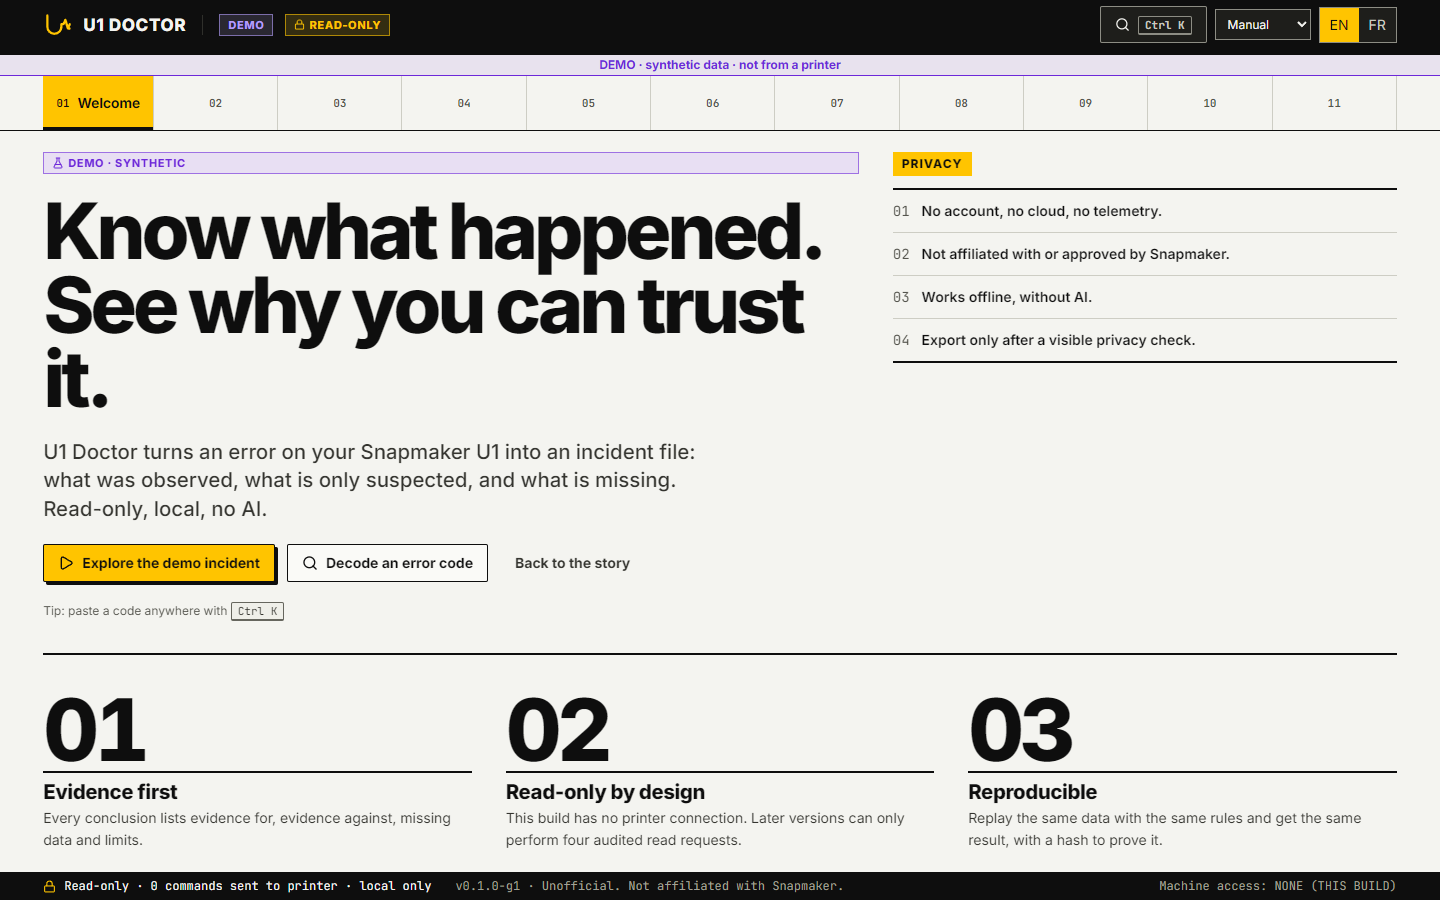
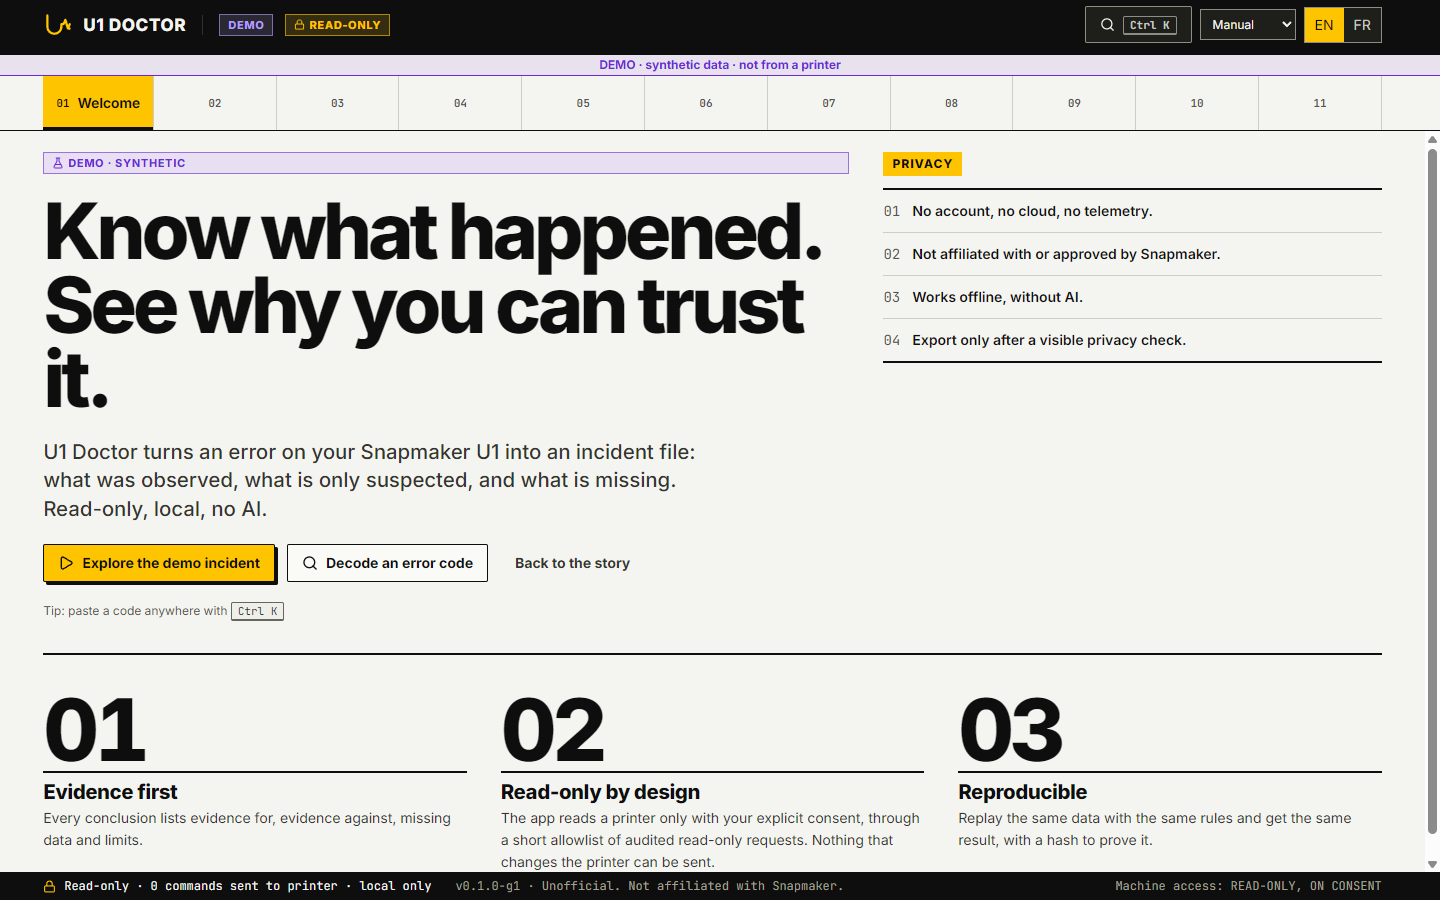
docs: Rewrite the README for newcomers and refresh the install guide
Plain-words intro, download and two-minute start, how to use the Connect
screen, current status (12 rules, real captures, release, VirusTotal), a
French summary and a call for real incidents. INSTALL now describes the
published release. Retake the welcome, connect and settings screenshots, which
showed the old no-connection build. Drop two unused noqa comments so ruff is
clean.

diff --git a/scripts/replay_hashes.py b/scripts/replay_hashes.py
@@ -12,8 +12,8 @@ from pathlib import Path
 ROOT = Path(__file__).resolve().parents[1]
 sys.path.insert(0, str(ROOT / "backend"))
 
-from app.engine import canon, evaluate  # noqa: E402
-from app.engine.canonical import ruleset_hash, sha256_hex  # noqa: E402
+from app.engine import canon, evaluate
+from app.engine.canonical import ruleset_hash, sha256_hex
 
 
 def main() -> int:

diff --git a/README.md b/README.md
@@ -1,53 +1,109 @@
-<p align="center"><img src="docs/media/hero.jpg" alt="U1 Doctor" width="100%"></p>
+<p align="center"><img src="docs/media/hero.jpg" alt="U1 Doctor: a Snapmaker U1 with a magnifier over its screen" width="100%"></p>
 
-# U1 Doctor
+<h1 align="center">U1 Doctor</h1>
 
-[![MIT](https://img.shields.io/badge/licence-MIT-ffc400?style=flat-square&labelColor=131416)](LICENSE) ![read-only](https://img.shields.io/badge/printer-read--only-ffc400?style=flat-square&labelColor=131416) ![local](https://img.shields.io/badge/runs-100%25%20local-ffc400?style=flat-square&labelColor=131416) ![no cloud](https://img.shields.io/badge/cloud%20%C2%B7%20telemetry%20%C2%B7%20AI-none-b4a0ff?style=flat-square&labelColor=131416)
+<p align="center"><b>When a print stops, know what happened, and why you can trust the answer.</b><br>
+A local, read-only evidence tool for the Snapmaker U1. No cloud, no telemetry, no AI.</p>
 
-**[Open the illustrated presentation](docs/presentation/index.html)** (EN/FR, animated, works offline).
+<p align="center">
+<a href="https://github.com/stormz85ia/u1-doctor/actions/workflows/ci.yml"><img alt="CI" src="https://github.com/stormz85ia/u1-doctor/actions/workflows/ci.yml/badge.svg"></a>
+<a href="https://github.com/stormz85ia/u1-doctor/releases/latest"><img alt="release" src="https://img.shields.io/github/v/release/stormz85ia/u1-doctor?include_prereleases&style=flat-square&labelColor=131416&color=ffc400"></a>
+<a href="LICENSE"><img alt="MIT" src="https://img.shields.io/badge/licence-MIT-ffc400?style=flat-square&labelColor=131416"></a>
+<img alt="read-only" src="https://img.shields.io/badge/printer-read--only-ffc400?style=flat-square&labelColor=131416">
+<img alt="local" src="https://img.shields.io/badge/runs-100%25%20local-ffc400?style=flat-square&labelColor=131416">
+<img alt="no cloud" src="https://img.shields.io/badge/cloud%20%C2%B7%20telemetry%20%C2%B7%20AI-none-b4a0ff?style=flat-square&labelColor=131416">
+</p>
 
-**Unofficial, local, read-only diagnostic forensics for the Snapmaker U1.**
-Not affiliated with, endorsed by, or approved by Snapmaker. No cloud, no telemetry, no AI.
+<p align="center">
+<a href="https://github.com/stormz85ia/u1-doctor/releases/latest"><b>Download for Windows</b></a> &nbsp;·&nbsp;
+<a href="https://stormz85ia.github.io/u1-doctor/presentation/"><b>Illustrated presentation</b></a> (EN/FR) &nbsp;·&nbsp;
+<a href="docs/INSTALL.md"><b>Install guide</b></a> &nbsp;·&nbsp;
+<a href="docs/LIMITS.md"><b>What it does not do</b></a>
+</p>
 
-When a print pauses or stops, U1 Doctor helps you answer three questions without guessing:
+> Unofficial. Not affiliated with, endorsed by, or approved by Snapmaker.
+
+---
+
+## What is it, in plain words?
+
+Your U1 pauses or shows an error code. You want to know what the code means, what the printer was doing just before, and what you can show a friend or Snapmaker support, without guessing.
+
+U1 Doctor runs **on your own PC**. It gives you three things:
 
 <table>
 <tr>
-<td width="33%"><img src="docs/media/q1-code.jpg" alt=""><br><b>1. What does this error code mean?</b><br>An offline decoder, with a link to the official page.</td>
-<td width="33%"><img src="docs/media/q2-timeline.jpg" alt=""><br><b>2. What happened, and when?</b><br>A timeline built only from observed facts.</td>
-<td width="33%"><img src="docs/media/q3-bundle.jpg" alt=""><br><b>3. What can I show someone else?</b><br>A portable evidence bundle (U1-DEB) that anyone can open and replay locally.</td>
+<td width="33%" valign="top"><img src="docs/media/q1-code.jpg" alt=""><br><b>1. What does this code mean?</b><br>An offline decoder for 413 official U1 error codes, with a link to the official page. A code it does not know gives "inconclusive", never a guess.</td>
+<td width="33%" valign="top"><img src="docs/media/q2-timeline.jpg" alt=""><br><b>2. What happened, and when?</b><br>A timeline built only from facts that were really observed, with the gaps shown instead of hidden.</td>
+<td width="33%" valign="top"><img src="docs/media/q3-bundle.jpg" alt=""><br><b>3. What can I show someone else?</b><br>A portable evidence bundle (<code>U1-DEB</code>) that anyone can open and replay on their own PC, to get the same result.</td>
 </tr>
 </table>
 
-> **Status: work in progress, prepared for the Snapmaker U1 Innovation Fund (Phase 2).**
-> **The app is offline by default.** It shows one **real** recorded capture and several **synthetic** scenarios, each clearly badged. The **Connect** screen can take a short **read-only** capture from your own U1, but only after you type its private address and tick an approval box. No real fault has been captured yet, so every incident you can open in the app is `SYNTHETIC`.
+**It only looks. It never touches your printer.** It cannot pause, cancel, restart or send G-code. It can read from a printer only if you type its address and tick an approval box, and even then through a short, fixed list of read-only requests.
+
+## A quick look
+
+| Overview | Incident timeline | Error codes |
+|---|---|---|
+| ![Overview](docs/media/screens/03-overview.png) | ![Timeline](docs/media/screens/06-timeline.png) | ![Error codes](docs/media/screens/04-error-codes.png) |
+
+Screenshots use the built-in **synthetic demo data** (the `DEMO` banner is always visible). All 11 screens are in [`docs/media/screens/`](docs/media/screens/).
+
+## Get started in two minutes (Windows)
+
+1. Download `u1-doctor-0.1.0-g1-win64.zip` and its `.sha256.txt` from the [latest release](https://github.com/stormz85ia/u1-doctor/releases/latest).
+2. Check the file was not altered (optional, 10 seconds):
+   ```powershell
+   Get-FileHash .\u1-doctor-0.1.0-g1-win64.zip -Algorithm SHA256
+   ```
[1 lines of base64/hex data omitted]
+3. Right-click the zip, **Extract all** (not WinRAR or 7-Zip, so Windows keeps the download mark), then run `u1-doctor.exe`.
+4. Open <http://127.0.0.1:8765> in your browser.
+
+**Good to know**
+- The app is **not code-signed**, so Windows SmartScreen may warn: choose "More info", then "Run anyway".
+- VirusTotal scan of the release zip: 1 engine out of 66 flagged it (a generic heuristic detection, no malware family named); [report](https://www.virustotal.com/gui/file/fb7b72530d16b7b08e76aea0cfe5a130854c7389e4b8c8093faee4a05c7e8469).
+- It opens in **DEMO mode**: everything works offline with clearly labelled synthetic data. Nothing is sent anywhere.
+- Linux, macOS and Docker: see the [install guide](docs/INSTALL.md).
+
+## Use it with your own U1
+
+1. Open the **Connect** screen.
+2. Type your printer's private address (for example `192.168.x.x`).
+3. Read the list of allowed requests, tick **"I own this printer"**, press **Capture (read-only)**.
+4. You get what the printer reports (state, versions, temperatures over time) and the findings from the rules, with the capture saved to the History screen if you wish.
+
+![The Connect screen](docs/media/screens/02-connect.png)
+
+The capture never contains your address or file names. If the live stream closes early, the app checks with a few more read-only status requests whether the printer itself still answers, so a lost connection is not mistaken for a stopped printer.
 
 ## What works today
 
 | Feature | State |
 |---|---|
-| Offline decoder for 413 official U1 error codes (paraphrased, with link). Unknown or malformed codes give `INCONCLUSIVE`, never a guess | tested on synthetic data |
-| Deterministic rules engine: the same observations and the same rule set always give the same findings and the same hash | tested on synthetic data, one platform |
-| Explainable findings: evidence for, evidence against, what is missing, limits, official references. No score, no percentage | tested on synthetic data |
-| Print-quality assistant ("needs your eyes"): 16 symptoms, causes from the official pages in the wiki's order, evidence only from numbers you type or temperatures in a saved session. No ranking, no score | tested on synthetic and real-capture data |
-| Timeline of the **observed window**: phases, explicit gaps, per-row source and time quality | tested on the real capture and 13 synthetic scenarios |
-| U1-DEB export, safe import, replay (see [`docs/U1-DEB.md`](docs/U1-DEB.md)) | tested in one process; not yet tested on a second machine |
-| Windows build (PyInstaller, one folder) | runs on the developer PC; **not yet tested on a clean Windows 11** |
+| Offline decoder for 413 official error codes (paraphrased, with link) | tested on synthetic data |
+| Deterministic rules engine: same observations and same rule set always give the same findings and the same hash. 12 rules | tested on synthetic and real-capture data, on Windows, Linux and macOS (identical replay hash in CI) |
+| Explainable findings: evidence for, evidence against, what is missing, limits, official references. No score, no percentage | tested |
+| Read-only live capture from the Connect screen | tested against a mock and on the owner's U1 (no write ever sent) |
+| Print-quality assistant ("needs your eyes"): 16 symptoms, causes in the official order, evidence only from numbers you type or saved temperatures | tested |
+| Timeline of the **observed window**: phases, explicit gaps, source and time quality per row | tested on real captures and 17 synthetic scenarios |
+| `U1-DEB` export, safe import and replay ([spec](docs/U1-DEB.md)) | tested; a ready-made example and a validator are in the repo |
+| Windows build (one folder, no Python needed) | started and checked on the developer PC; **not yet tested on a clean Windows 11** |
 | English and French interface | both complete |
 
-The real capture comes from the owner's own U1 (firmware 2.1.0): a 27-minute normal print, 9,333 frames, no fault. It is a recorded file in `fixtures/real/`. The evidence of how it was taken is in `docs/evidence/`.
+**Honest status:** the real captures come from the owner's own U1 (firmware 2.1.0) and are normal prints: a 27-minute print (9,333 frames) and a 55-minute multi-colour print (18,339 frames). **No real fault has been captured yet**, so every incident you can open in the app is labelled `SYNTHETIC`. That is the main thing this project still needs: see [real incidents wanted](#real-incidents-wanted).
 
 ## Safety model
 
 U1 Doctor never controls the printer.
 
-- The only code allowed to open a network connection to a printer is a single transport module. The web interface reaches it through one route, `POST /api/v1/live/capture`, which refuses to run without explicit owner consent, accepts one private IPv4 address, and rejects requests that do not come from the app itself.
-- Requests are checked against a frozen allowlist **before** any network I/O: `GET /server/info`, `GET /printer/info`, `GET /printer/objects/list`, `POST /printer/objects/query` (read-only query), and one WebSocket method, `printer.objects.subscribe`. Anything else is refused.
+- One single module may open a network connection to a printer. The web interface reaches it through one route (`POST /api/v1/live/capture`) that refuses to run without explicit owner consent, accepts one private IPv4 address, and rejects requests that do not come from the app itself.
+- Every request is checked against a frozen allowlist **before** any network I/O: `GET /server/info`, `GET /printer/info`, `GET /printer/objects/list`, `POST /printer/objects/query` (read-only query) and one WebSocket method, `printer.objects.subscribe`. Anything else is refused.
 - Pause, resume, cancel, restart, emergency stop and `printer.gcode.script` are covered by tests that must stay refused.
-- Supervised sessions on the owner's U1: two scripted runs (3 read-only GET requests and 1 WebSocket subscribe) and one capture started from the Connect screen on an idle printer (3 GET and 1 subscribe, 15 s). No write was sent.
+- Supervised sessions on the owner's U1 (scripted runs, a capture from the Connect screen and a 55-minute passive watch of a print) recorded **0 non-read operations**. The evidence is in [`docs/evidence/`](docs/evidence/).
 - The app listens on `127.0.0.1` only. Nothing leaves your machine.
 
-Details: [`docs/threat-model.md`](docs/threat-model.md), [`docs/capability-matrix.md`](docs/capability-matrix.md).
+Details: [`docs/threat-model.md`](docs/threat-model.md), [`docs/capability-matrix.md`](docs/capability-matrix.md), [`SECURITY.md`](SECURITY.md).
 
 ## What it does not claim
 
@@ -56,11 +112,14 @@ Details: [`docs/threat-model.md`](docs/threat-model.md), [`docs/capability-matri
 - Timestamps are the PC's receipt time unless proven otherwise. Machine clocks are never read as UTC.
 - A SHA-256 on a bundle proves **integrity only**, never who made it.
 - The official wiki warns that the displayed code may not be the real fault. The decoder reports what the code says, not a diagnosis.
+- Two rules rest on thresholds measured on a single print (a hot nozzle with its fan at zero, for one). They say so in their findings and rate themselves weak.
 - Export redaction is best effort and is not a guarantee of anonymity. Review a bundle before sharing it.
+
+Full list, each limit with its source: [`docs/LIMITS.md`](docs/LIMITS.md).
 
 ## Why owner-readable evidence
 
-According to the official Snapmaker wiki, the U1's exported system logs are encrypted: the archive cannot be read locally, and only Snapmaker support can open it. U1 Doctor does not read or decrypt those logs. It gives the owner something different: readable, hash-verifiable evidence built from read-only observations the owner authorizes, which can be inspected and replayed locally. A SHA-256 proves integrity only, never authorship. Source: [`docs/wiki-findings.md`](docs/wiki-findings.md) section 2.
+According to the official Snapmaker wiki, the U1's exported system logs are encrypted: the archive cannot be read locally, and only Snapmaker support can open it. U1 Doctor does not read or decrypt those logs. It gives the owner something different: readable, hash-verifiable evidence built from read-only observations the owner authorizes, which can be inspected and replayed locally. Source: [`docs/wiki-findings.md`](docs/wiki-findings.md), section 2.
 
 ## How it works
 
@@ -76,7 +135,11 @@ findings --> U1-DEB bundle (export / safe import / replay)
 
 Every fact carries its source and a time-quality marker. Findings point back to the observations that produced them. Imported bundles are labelled `IMPORTED`, and their findings are always recomputed with your local rule set. Architecture: [`docs/architecture.md`](docs/architecture.md).
 
-## Run from source (Windows PowerShell)
+## Real incidents wanted
+
+The rules were written from the official documentation and tested on one healthy printer. What would improve them most is a **real incident**: an error code that appeared, with the capture or bundle around it. If you have one, open an issue and describe it. Review any bundle before attaching it, and never include serial numbers or addresses.
+
+## Run from source
 
 Requirements: Python 3.12 or newer, Node.js with npm.
 
@@ -100,26 +163,39 @@ cd backend; .venv\Scripts\python.exe -m pytest
 cd frontend; npm test
 ```
 
-At the time of writing: 877 backend tests and 81 frontend tests pass, with `ruff`, `mypy` and `tsc` clean. CI runs the same checks.
-
-To build the Windows package: `scripts\build_windows.ps1`. A release zip with its SHA-256 will be linked here at publication. The executable is unsigned, so Windows SmartScreen may warn.
+At the time of writing: 914 backend tests, 82 frontend tests and 14 browser (Playwright) tests pass, with `ruff`, `mypy` and `tsc` clean. CI runs the same checks on Windows, Linux and macOS.
 
 ## More documentation
 
-- [`docs/INSTALL.md`](docs/INSTALL.md): install guide (no release yet; the exe is not yet tested on a clean Windows 11).
+- [`docs/INSTALL.md`](docs/INSTALL.md): install guide (executable, source, Docker) and where your data lives.
+- [`docs/U1-DEB.md`](docs/U1-DEB.md): the evidence bundle format and its validator.
 - [`docs/LIMITS.md`](docs/LIMITS.md): what is not covered or not yet proven.
+- [`docs/spec/`](docs/spec/): the original requirements and the read-only hardware test protocol (in French).
 - [`CONTRIBUTING.md`](CONTRIBUTING.md): tests, conventions, honesty rules.
-- [`SECURITY.md`](SECURITY.md): read-only allowlist summary and how to report a vulnerability.
+- [`SECURITY.md`](SECURITY.md): the read-only allowlist and how to report a vulnerability privately.
 
 ## Related community projects
 
 U1 Doctor is not a dashboard and does not drive the printer. Nearby projects that do other jobs:
 
-- [U1 Print Hub](https://github.com/dlgambill/u1hub) (MIT): farm dashboard, queue, scheduling, and a per-printer logbook. It sends commands to the printers. U1 Doctor only reads.
+- [U1 Print Hub](https://github.com/dlgambill/u1hub) (MIT): farm dashboard, queue, scheduling and a per-printer logbook. It sends commands to the printers. U1 Doctor only reads.
 - [Snapmaker Studio](https://github.com/DVOpenLabs/snapmaker-studio) (MIT): checks a 3MF or STL file before slicing.
 - [U1 Dry Run](https://github.com/DesignMaster-Solutions/u1-dryrun) (GPL-3.0): runs sliced G-code through the real U1 firmware without a printer.
 
 No code is copied from these projects. The comparison is in [`docs/ORIGINALITY_AUDIT.md`](docs/ORIGINALITY_AUDIT.md).
+
+<details>
+<summary><b>En français</b></summary>
+
+**U1 Doctor** est un outil local et en lecture seule pour la Snapmaker U1. Quand une impression s'arrête, il t'aide à répondre à trois questions sans deviner : que veut dire ce code d'erreur (décodeur hors ligne de 413 codes officiels), que s'est-il passé et quand (frise construite uniquement avec des faits observés), et que montrer à quelqu'un d'autre (un paquet de preuves `U1-DEB` que chacun peut rouvrir et rejouer chez soi).
+
+- **Il ne pilote jamais l'imprimante** : ni pause, ni annulation, ni G-code. Il ne lit une imprimante que si tu saisis son adresse privée et coches la case d'accord, avec une courte liste fixe de requêtes de lecture.
+- **Tout reste sur ton PC** : pas de cloud, pas de télémétrie, pas d'IA. L'application n'écoute que sur `127.0.0.1`.
+- **Démarrer** : télécharge le zip de la [dernière release](https://github.com/stormz85ia/u1-doctor/releases/latest), extrais-le avec « Extraire tout », lance `u1-doctor.exe`, puis ouvre <http://127.0.0.1:8765>. Windows peut afficher un avertissement SmartScreen, car l'exe n'est pas signé.
+- **Bilingue** : l'interface existe en français et en anglais, avec un bouton en haut à droite.
+- **Statut honnête** : seules des impressions normales ont été capturées sur une vraie U1 ; aucune panne réelle pour l'instant, donc tous les incidents de démonstration sont marqués `SYNTHETIC`. La [présentation illustrée](https://stormz85ia.github.io/u1-doctor/presentation/) est aussi disponible en français.
+
+</details>
 
 ## License
 

diff --git a/docs/INSTALL.md b/docs/INSTALL.md
@@ -12,23 +12,24 @@ All 11 screens are in [`docs/media/screens/`](media/screens/).
 
 ## Before you start: what is and is not verified
 
-- **No release exists yet.** Option A below describes how a release will be installed; there is nothing to download today.
-- The Windows build has run on the developer PC only. It has **not yet been tested on a clean Windows 11** and has **not yet been antivirus-scanned**.
-- The executable is unsigned, so Windows SmartScreen may warn.
+- **Release `v0.1.0-g1` exists** (marked as the first build): [releases page](https://github.com/stormz85ia/u1-doctor/releases/latest). It is built by GitHub Actions and smoke-tested there.
+- The test kit shipped in the zip was run on the developer PC (Windows 11, zip downloaded with a browser): the exe started in about a second, listened on `127.0.0.1` only, created no firewall rule and raised no SmartScreen or antivirus alert. That PC had Defender real-time protection off and has development tools, so the result is weaker than a test on a clean second PC, which has **not** been done yet.
+- VirusTotal scan of the release zip: 1 engine out of 66 flagged it (a generic heuristic detection, no malware family named). [Report](https://www.virustotal.com/gui/file/fb7b72530d16b7b08e76aea0cfe5a130854c7389e4b8c8093faee4a05c7e8469).
+- The executable is unsigned, so Windows SmartScreen may warn: choose "More info", then "Run anyway".
 - Source: `IMPLEMENTATION_STATUS.md` (REQ-015), `BACKLOG.md`.
 
-## A. Windows executable (from a release, once published)
+## A. Windows executable (from the release)
 
-1. Download the release zip and its SHA-256 from the release page (link to be added at publication).
+1. Download `u1-doctor-0.1.0-g1-win64.zip` and its `.sha256.txt` from the [release page](https://github.com/stormz85ia/u1-doctor/releases/latest).
 2. Verify the hash in PowerShell before unpacking:
 
    ```powershell
-   Get-FileHash .\u1-doctor-windows.zip -Algorithm SHA256
+   Get-FileHash .\u1-doctor-0.1.0-g1-win64.zip -Algorithm SHA256
    ```
 
-   Compare the output with the published value: `SHA256_TO_FILL_AT_RELEASE`. If they differ, do not run the file.
[1 lines of base64/hex data omitted]
    (A SHA-256 proves the file was not altered or corrupted. It does not prove who made it.)
-3. Unpack the zip (one folder, no Python needed) and run `u1-doctor.exe`.
+3. Unpack the zip with Windows Explorer (**Extract all**; WinRAR or 7-Zip would drop the download mark Windows uses for SmartScreen). It is one folder, no Python needed. Run `u1-doctor.exe`. A small test kit (`RUN-TEST.cmd`) is included: it checks the exe on your PC and writes a report you can read before sharing it.
 4. Open <http://127.0.0.1:8765>. Set `U1DOCTOR_PORT` to change the port.
 
 The build is produced by `scripts\build_windows.ps1`. It bundles the owner's 3D model (`frontend/public/models/u1-jay.glb`).
@@ -79,12 +80,12 @@ It is a local SQLite file holding saved replays and the history of observation s
 
 ## D. First steps in DEMO mode (no printer needed)
 
-Everything works offline. The **Connect** screen is the only part that can reach a printer, and only after you type its private address and tick the approval box.
+Everything works offline. The **Connect** screen is the only part that can reach a printer, and only after you type its private address and tick the approval box. It then takes a short read-only capture (3 GET requests and 1 live subscription, 3 to 60 seconds) and, if the stream closes early, a few more read-only status requests.
 
 1. Open the app. A banner and a mode badge show **DEMO** at all times.
 2. Look up an error code in the offline decoder. An unknown or malformed code gives `INCONCLUSIVE`, never a guess.
 3. Open a scenario and read its timeline and findings (evidence for, evidence against, what is missing, limits, official references).
-4. Every synthetic scenario is labelled `SYNTHETIC`. The only real data is one recorded capture of a normal print (labelled as real, with no fault in it).
+4. Every synthetic scenario is labelled `SYNTHETIC`. The only real data is recorded captures of normal prints (labelled as real, with no fault in them).
 5. Export an evidence bundle (U1-DEB) and re-import it to replay it locally. See [`U1-DEB.md`](U1-DEB.md).
 
 ## E. The read-only guarantee
